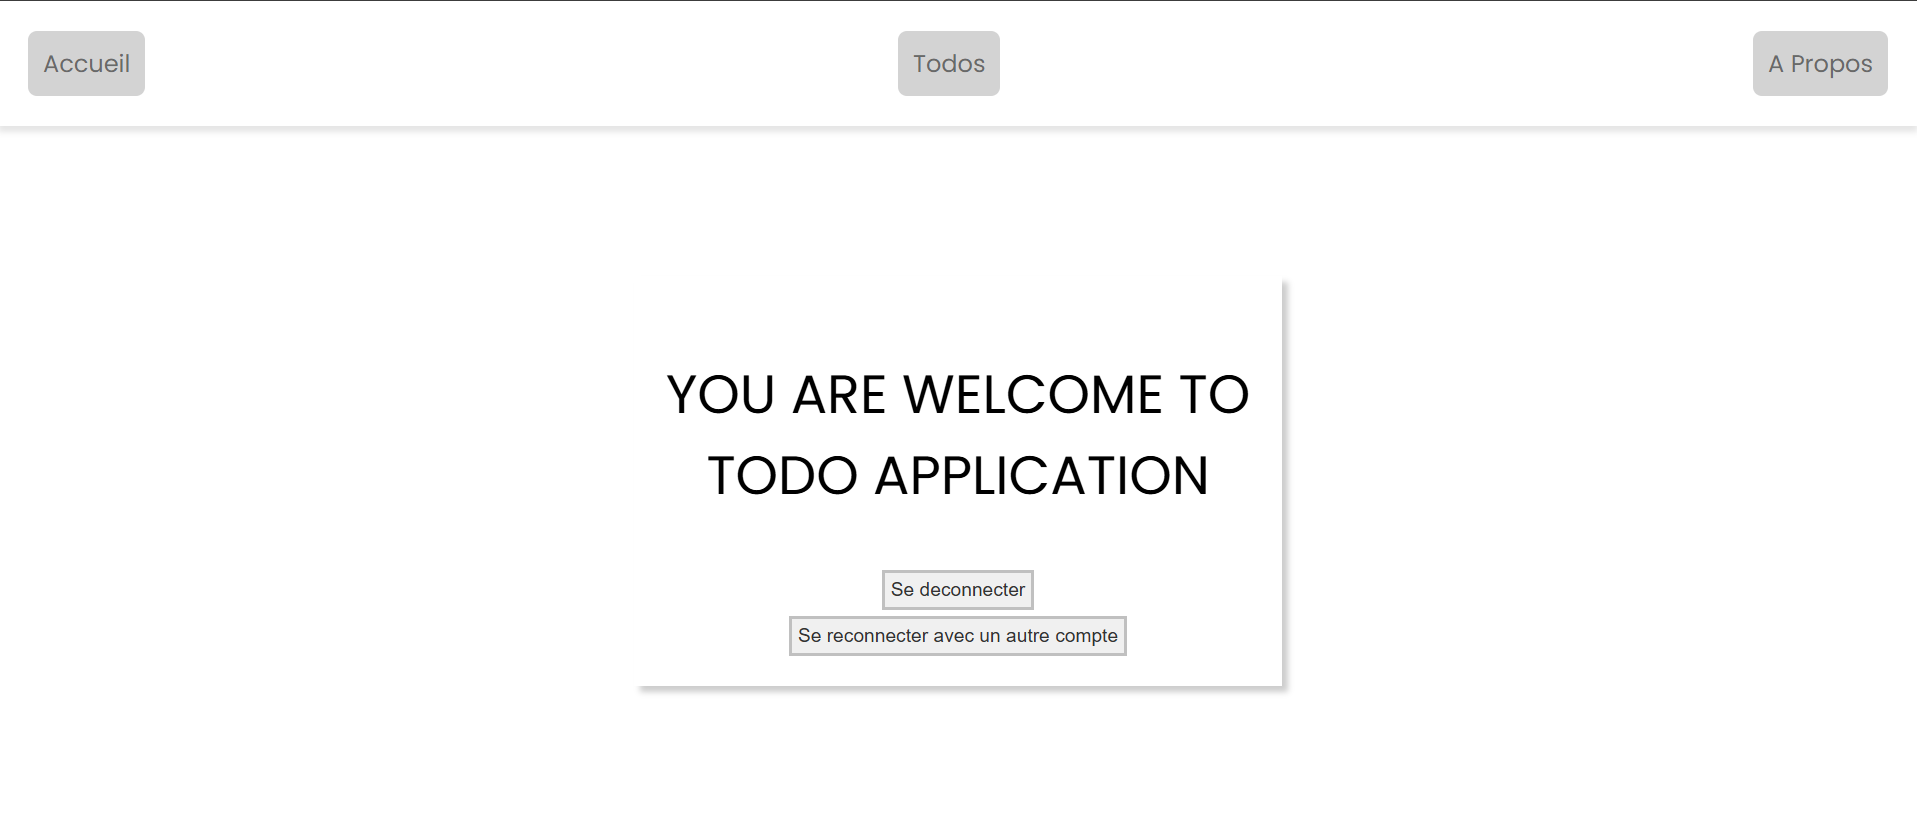
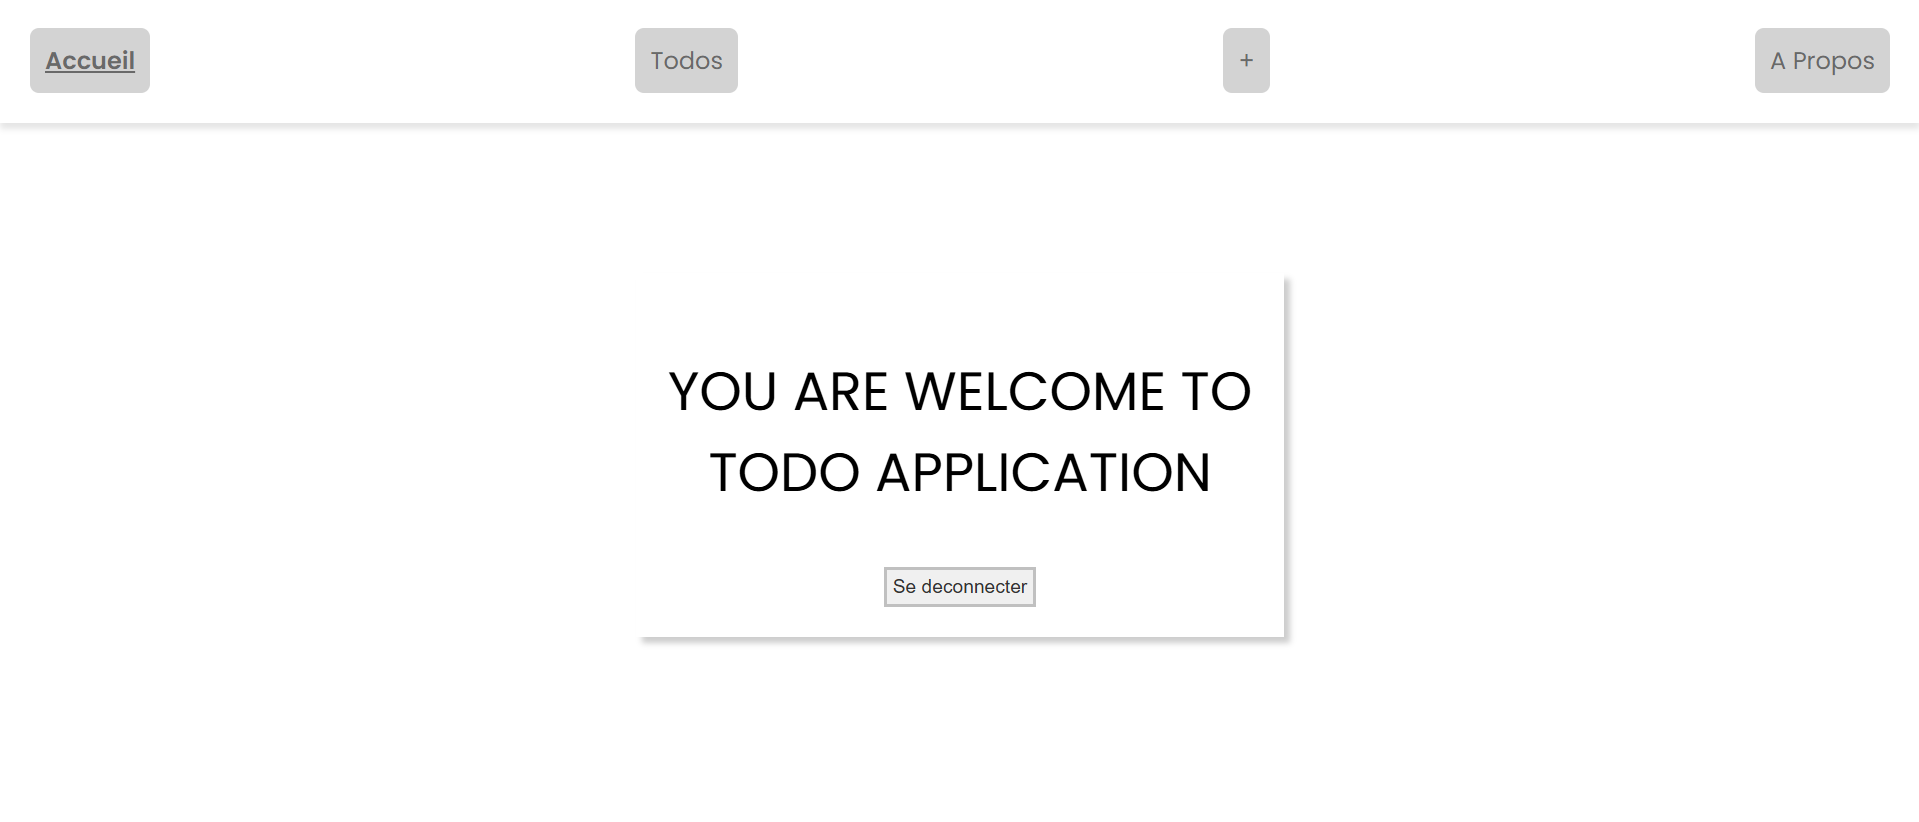
utilisation des guards et du localstorage

diff --git a/src/app/core/services/auth.service.ts b/src/app/core/services/auth.service.ts
@@ -3,6 +3,7 @@ import { Injectable } from "@angular/core";
 import { Observable, switchMap, tap } from "rxjs";
 import { environment } from "../../environements/environnement";
 import { Token } from "../models/token/token";
+import { Credentials } from "../types/credentials.type";
 
 
 @Injectable({
@@ -10,14 +11,25 @@ import { Token } from "../models/token/token";
 })
 export class AuthService {
 
+    public existToken(): boolean{
+        return (localStorage.getItem("access_token") != null);
+    }
+    public logout() {
+        localStorage.removeItem("access_token");
+        localStorage.removeItem("refresh_token");
+
+    }
+
     private apiUrl: string = environment.apiUrl;
     private  baseUrl: string = `${this.apiUrl}/users`;
     constructor(private http: HttpClient) { }
-    public login(userLoginRequest: { username: string, password: string }): Observable<Token> {
+    public login(userLoginRequest:Credentials): Observable<Token> {
         return this.http.post<Token>(`${this.baseUrl}/login`, userLoginRequest).pipe(
             tap((response:any) => {
                 localStorage.setItem('access_token', response.access_token);
-                localStorage.setItem('refresh_token', response.refresh_token);
+                if (userLoginRequest.stayLoggedIn) {
+                    localStorage.setItem('refresh_token', response.refresh_token);
+                }
             })
         );
     }
@@ -28,7 +40,13 @@ export class AuthService {
             () => {
                 const username: string = formValue.username;
                 const password: string = formValue.password;
-                return this.login({ username, password });
+                const credentials :Credentials= {
+                        username: username,
+                        password: password,
+                        stayLoggedIn:true
+                }
+
+                return this.login(credentials);
             }
             )
         );

diff --git a/src/app/auth/auth.module.ts b/src/app/auth/auth.module.ts
@@ -1,10 +1,10 @@
+import { CommonModule } from '@angular/common';
 import { NgModule } from '@angular/core';
-import { CommonModule, NgIf } from '@angular/common';
-import { FormGroup, ReactiveFormsModule } from '@angular/forms';
+import { ReactiveFormsModule } from '@angular/forms';
 import { RouterLink } from '@angular/router';
-import { RegistrationPageComponent } from './components/registration-page/registration-page.component';
-import { LoginPageComponent } from './components/login-page/login-page.component';
 import { AuthRoutingModule } from './auth-routing.module';
+import { LoginPageComponent } from './components/login-page/login-page.component';
+import { RegistrationPageComponent } from './components/registration-page/registration-page.component';
 
 
 
@@ -22,7 +22,6 @@ import { AuthRoutingModule } from './auth-routing.module';
   exports: [
     RegistrationPageComponent,
     LoginPageComponent,
-    AuthRoutingModule
   ],
 })
 export class AuthModule { }

diff --git a/src/app/app-routing.module.ts b/src/app/app-routing.module.ts
@@ -1,6 +1,31 @@
 import { NgModule } from '@angular/core';
-import { RouterModule } from '@angular/router';
-import { routes } from './app.routes';
+import { RouterModule, Routes } from '@angular/router';
+import { AboutPageComponent } from './about-page/components/about-page.component';
+import { NotfoundComponent } from './core/components/notfound/notfound.component';
+import { LandingPageComponent } from './landing-page/components/landing-page.component';
+import { AuthGard } from './core/guards/auth.gards';
+const routes: Routes = [
+
+    {
+        path: 'accueil',
+        component: LandingPageComponent
+    },
+
+    {
+        path: 'about',
+        component: AboutPageComponent
+    },
+    {
+        path: 'todos',
+        loadChildren: () => import('./todos/todos.module').then(m => m.TodosModule),
+        canActivate:[AuthGard]
+    },
+
+    {
+        path: '**',
+        component: NotfoundComponent
+    }
+];
 
 
 @NgModule({

diff --git a/src/app/core/guards/auth.gards.ts b/src/app/core/guards/auth.gards.ts
@@ -1,0 +1,23 @@
+import { ActivatedRouteSnapshot, CanActivate, GuardResult, MaybeAsync, Router, RouterStateSnapshot } from "@angular/router";
+import { AuthService } from "../services/auth.service";
+import { Injectable } from "@angular/core";
+@Injectable(
+    {
+        providedIn:'root'
+    }
+)
+export class AuthGard implements CanActivate{
+    constructor(private auth: AuthService, private router: Router){}
+    canActivate(route: ActivatedRouteSnapshot, state: RouterStateSnapshot): boolean {
+        if (this.auth.existToken())
+        {
+            return true;
+        }
+        else {
+            this.router.navigateByUrl("/");
+            return false;
+        }
+
+    }
+
+}

diff --git a/src/app/auth/auth-routing.module.ts b/src/app/auth/auth-routing.module.ts
@@ -1,9 +1,8 @@
-import { NgModule } from '@angular/core';
 import { CommonModule } from '@angular/common';
+import { NgModule } from '@angular/core';
 import { RouterModule, Routes } from '@angular/router';
-import { RegistrationPageComponent } from './components/registration-page/registration-page.component';
 import { LoginPageComponent } from './components/login-page/login-page.component';
-import { AuthModule } from './auth.module';
+import { RegistrationPageComponent } from './components/registration-page/registration-page.component';
 
 const routes: Routes = [
   {

diff --git a/src/app/app.module.ts b/src/app/app.module.ts
@@ -8,17 +8,16 @@ import { AppComponent } from './app.component';
 import { AuthModule } from './auth/auth.module';
 import { CoreModule } from './core/core.module';
 import { LandingPageModule } from './landing-page/landing-page.module';
-import { AuthRoutingModule } from './auth/auth-routing.module';
 
 @NgModule({
   declarations: [
     AppComponent
   ],
   imports: [
-    AppRoutingModule,
+    BrowserModule,
     CommonModule,
     AuthModule,
-    BrowserModule,
+    AppRoutingModule,
     LandingPageModule,
     CoreModule,
     RouterOutlet

diff --git a/src/app/landing-page/components/landing-page.component.ts b/src/app/landing-page/components/landing-page.component.ts
@@ -1,4 +1,6 @@
 import { Component } from '@angular/core';
+import { Router } from '@angular/router';
+import { AuthService } from '../../core/services/auth.service';
 
 @Component({
   selector: 'app-landing-page',
@@ -6,5 +8,11 @@ import { Component } from '@angular/core';
   styleUrl: './landing-page.component.scss'
 })
 export class LandingPageComponent {
+  constructor(private router:Router,private auth :AuthService){}
+  logout(): void{
+    this.auth.logout();
+    this.router.navigateByUrl("/");
+
+  }
 
 }

diff --git a/src/app/landing-page/landing-page.module.ts b/src/app/landing-page/landing-page.module.ts
@@ -1,6 +1,7 @@
 import { NgModule } from '@angular/core';
 import { CommonModule } from '@angular/common';
 import { LandingPageComponent } from './components/landing-page.component';
+import { RouterModule } from '@angular/router';
 
 
 
@@ -9,7 +10,8 @@ import { LandingPageComponent } from './components/landing-page.component';
     LandingPageComponent
   ],
   imports: [
-    CommonModule
+    CommonModule,
+    RouterModule
   ],
   exports: [
     LandingPageComponent

diff --git a/src/app/core/components/header/header.component.html b/src/app/core/components/header/header.component.html
@@ -1,7 +1,7 @@
 <nav class="navbar">
 <a routerLink="accueil"  routerLinkActive="active" class="navbar__link">Accueil</a>
 <a routerLink="todos" routerLinkActive="active"  class="navbar__link">Todos</a>
-<a routerLink="create" class="navbar__link">+</a>
+<a routerLink="todos/create" class="navbar__link">+</a>
 <a routerLink="about" routerLinkActive="active" class="navbar__link">A Propos</a>
 
 </nav>

diff --git a/src/app/auth/components/login-page/login-page.component.html b/src/app/auth/components/login-page/login-page.component.html
@@ -11,7 +11,7 @@
         <i class='bx bxs-lock'></i>
       </div>
       <div class="remember-forgot">
-        <label><input type="checkbox">Remember Me</label>
+        <label><input type="checkbox" formControlName="stayLoggedIn">Remember Me</label>
         <a href="#">Mot de passe oublié ? </a>
       </div>
       <button type="submit" class="btn">Login</button>

diff --git a/src/app/auth/components/login-page/login-page.component.ts b/src/app/auth/components/login-page/login-page.component.ts
@@ -15,7 +15,8 @@ export class LoginPageComponent implements OnInit{
   ngOnInit(): void {
     this.loginForm=this.formBuilder.group({
       username: ['',Validators.required],
-      password: ['',Validators.required],
+      password: ['', Validators.required],
+      stayLoggedIn:[false]
     });
   }
   onSubmitLoginForm(): void{

diff --git a/src/app/landing-page/components/landing-page.component.html b/src/app/landing-page/components/landing-page.component.html
@@ -2,8 +2,7 @@
   <div class="landing-content">
     <p>YOU ARE WELCOME TO TODO APPLICATION</p>
     <div class="landing-content__button">
-      <button>Se deconnecter</button>
-      <button>Se reconnecter avec un autre compte</button>
+      <button (click)="logout()">Se deconnecter</button>
     </div>
   </div>
 </div>
